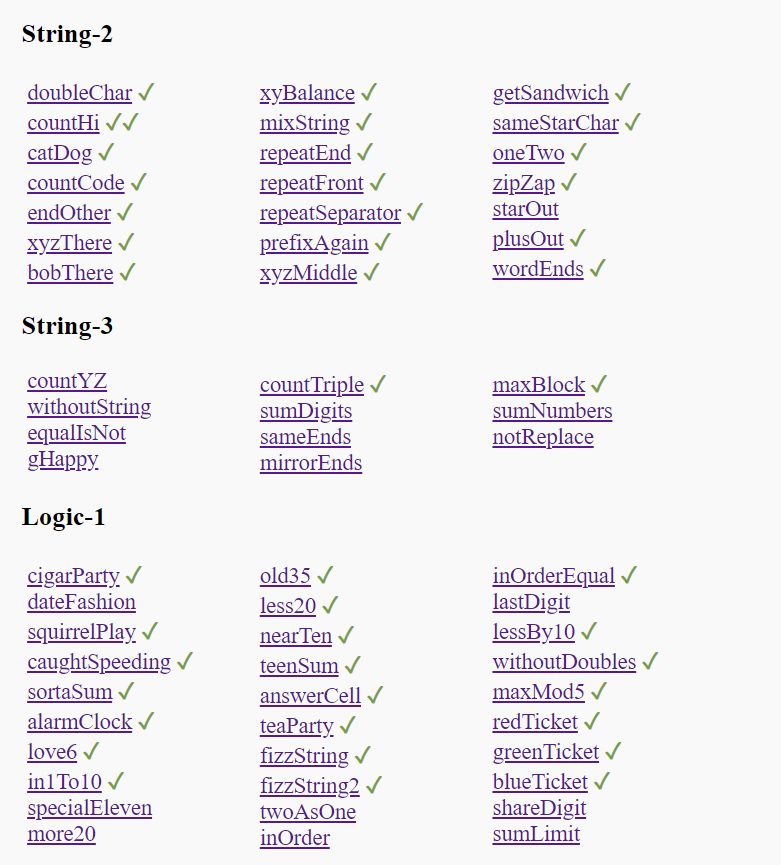
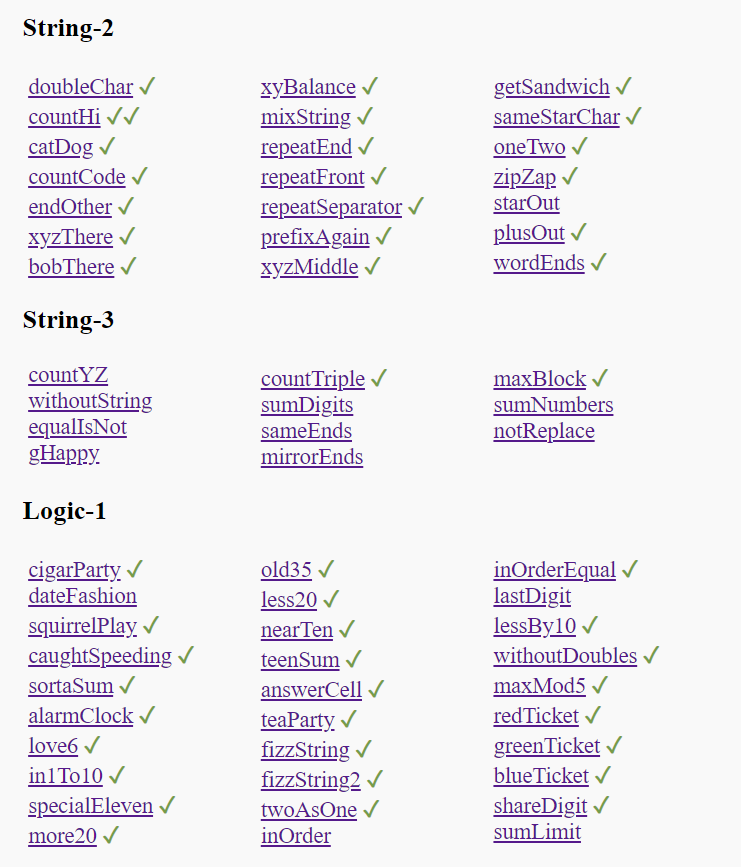
more20

diff --git a/Javascript/Assignments/Logic-1/more20.js b/Javascript/Assignments/Logic-1/more20.js
@@ -1,0 +1,11 @@
+function more20(n){
+    if(n%20==2 || n%20==1) {
+        return true;
+    }
+    else {
+        return false;
+    }
+}
+
+let answer = more20(13);
+console.log(answer);
